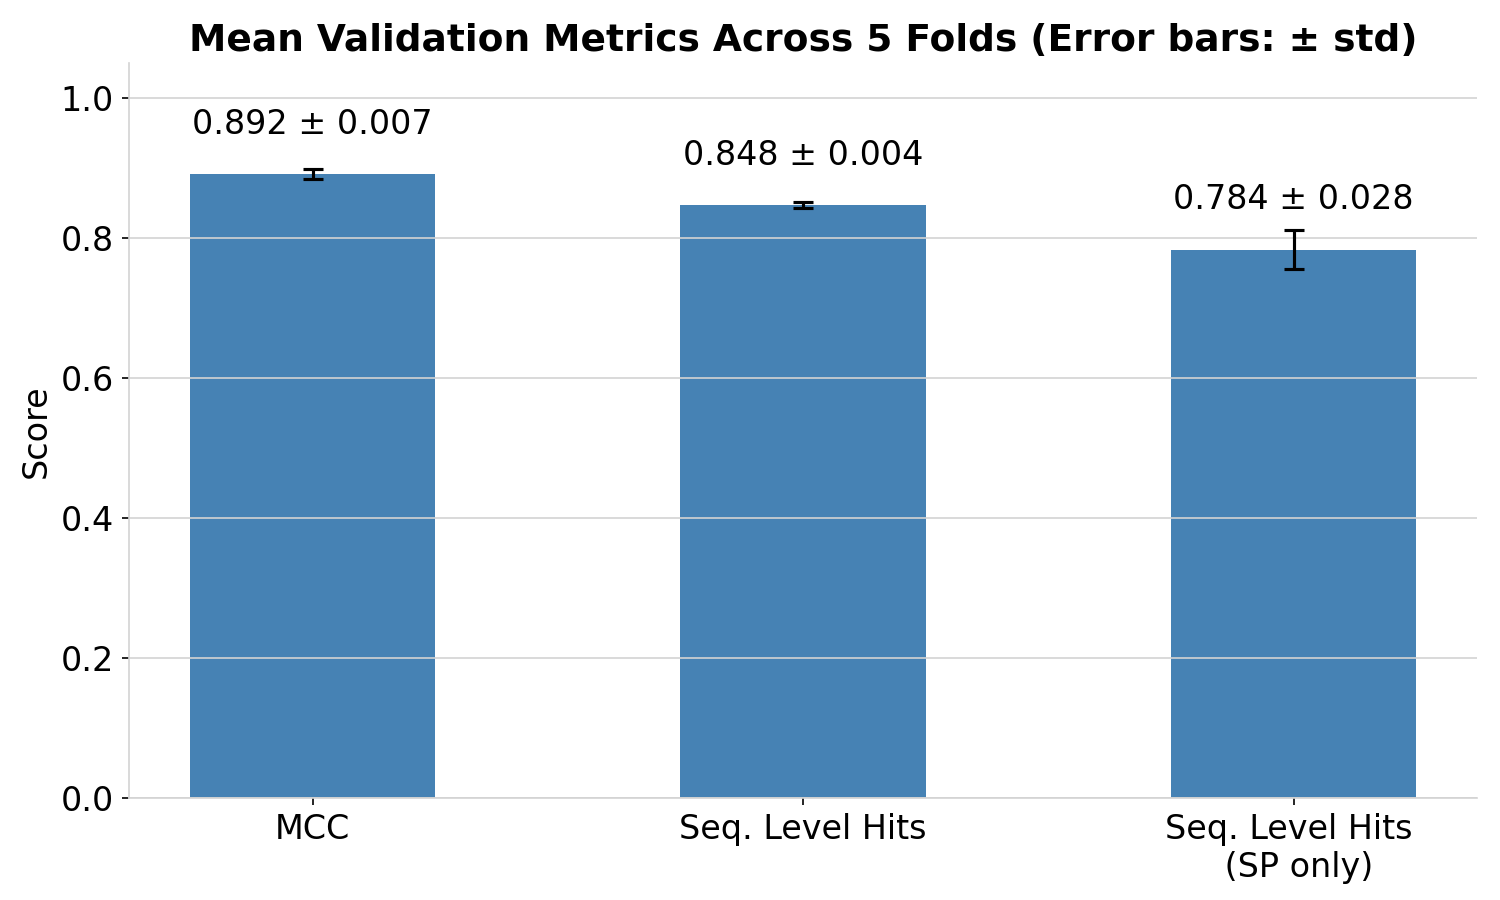
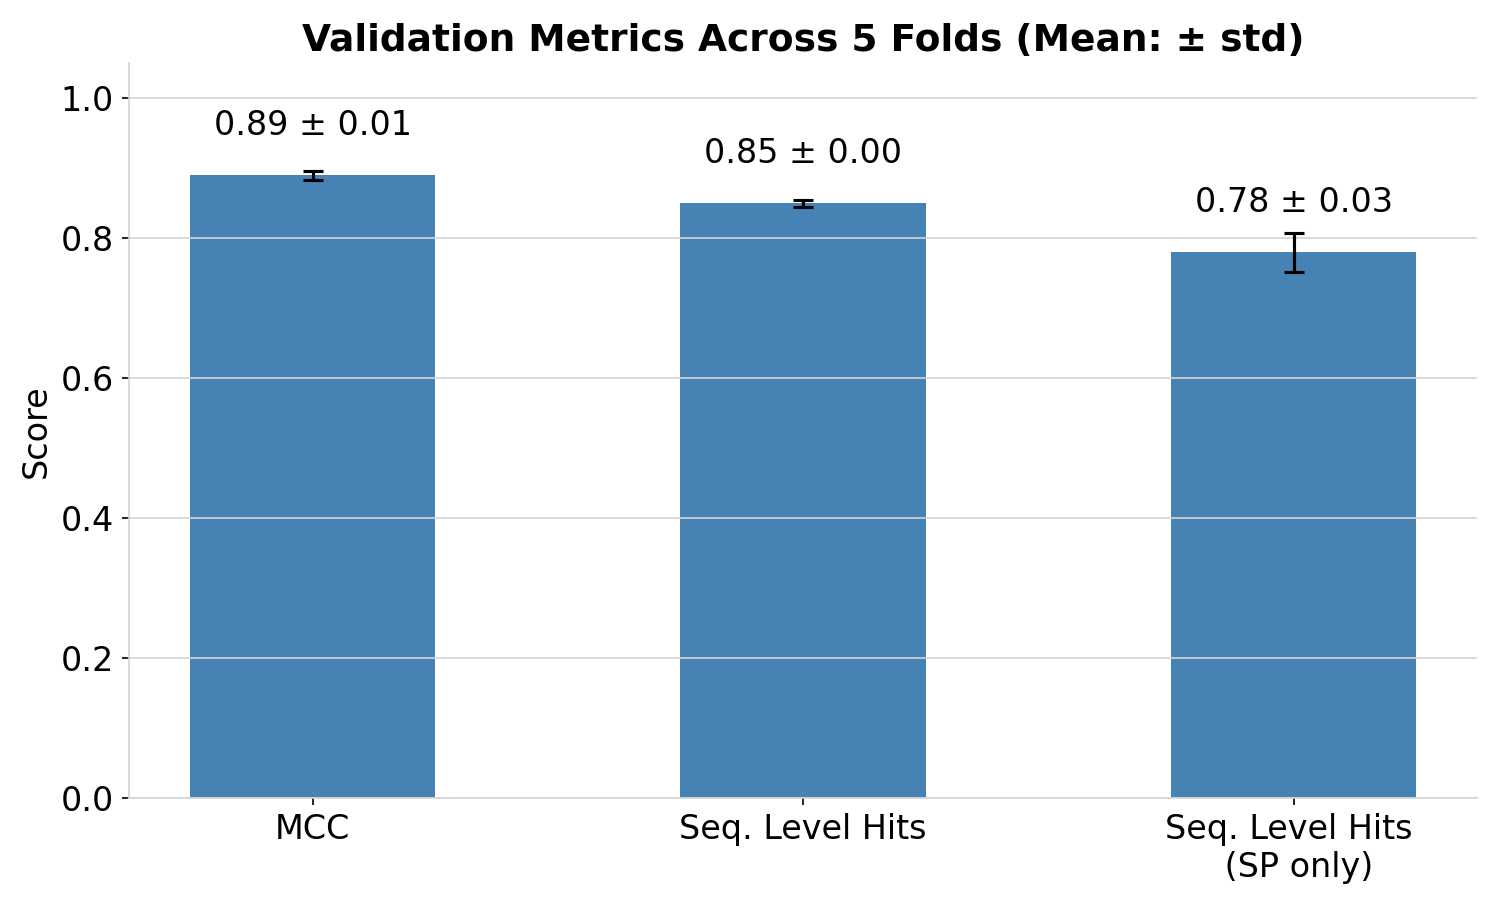
updates to the evaluation of the 6th model

diff --git a/6state/t5_lstm_cnn_6/evaluate_folds_mcc.py b/6state/t5_lstm_cnn_6/evaluate_folds_mcc.py
@@ -33,7 +33,8 @@ SIX_TO_FOUR_MAP = {
     5: 3  # OTHER
 }
 
-PLOT_LABELS = ['SP', 'TAT', 'LIPO', 'OTHER']
+PLOT_LABELS_4STATE = ['SP', 'TAT', 'LIPO', 'OTHER']
+PLOT_LABELS_6STATE = ['SP', 'TAT', 'LIPO', 'NO_SP', 'NO_SP_B', 'OTHER']
 SEQ_LENGTH = 70
 
 
@@ -134,27 +135,32 @@ def plot_metrics(mean_mcc, std_mcc, mean_acc, std_acc, fold_num, output_path):
     plt.close()
 
 
-def plot_label_distribution(sequences, output_path, title="Label Distribution"):
+def plot_label_distribution(sequences, output_path, title="Label Distribution", num_states=4):
     """Plots the relative distribution of labels."""
-    counts = {i: np.zeros(SEQ_LENGTH) for i in range(4)}
+    counts = {i: np.zeros(SEQ_LENGTH) for i in range(num_states)}
     total_counts = np.zeros(SEQ_LENGTH)
-    
+
     for seq in sequences:
         for i in range(min(len(seq), SEQ_LENGTH)):
             label = seq[i]
             if label in counts:
                 counts[label][i] += 1
                 total_counts[i] += 1
-                
+
     total_counts[total_counts == 0] = 1
-    ratios = [counts[i] / total_counts for i in range(4)]
-    
-    colors = ['#D55E00', '#009E73', '#56B4E9', '#CCCCCC']
-    
+    ratios = [counts[i] / total_counts for i in range(num_states)]
+
+    if num_states == 4:
+        colors = ['#D55E00', '#009E73', '#56B4E9', '#CCCCCC']
+        plot_labels = PLOT_LABELS_4STATE
+    else:
+        colors = ['#D55E00', '#009E73', '#56B4E9', '#E69F00', '#0072B2', '#CCCCCC']
+        plot_labels = PLOT_LABELS_6STATE
+
     fig, ax = plt.subplots(figsize=(12, 6))
     x = np.arange(1, SEQ_LENGTH + 1)
-    
-    ax.stackplot(x, *ratios, labels=PLOT_LABELS, colors=colors, alpha=0.9)
+
+    ax.stackplot(x, *ratios, labels=plot_labels, colors=colors, alpha=0.9)
     
     ax.set_xlim(1, SEQ_LENGTH)
     ax.set_ylim(0, 1.0)
@@ -170,7 +176,7 @@ def plot_label_distribution(sequences, output_path, title="Label Distribution"):
     plt.close()
 
 
-def get_fold_predictions(fold_num, embeddings_path):
+def get_fold_predictions(fold_num, embeddings_path=Config.TEST_EMBEDINGS):
     """Run inference for a single fold and return raw sequences."""
     
     model_path = Config.MODEL_SAVE_PATH_TEMP.format(fold_num)
@@ -229,16 +235,26 @@ def get_fold_predictions(fold_num, embeddings_path):
     return fold_pred_seqs, fold_label_seqs
 
 
-def evaluate_best_fold(best_fold_num, embeddings_path=None):
-    """Evaluate ONLY the best fold and run bootstrap on it."""
-    
+def evaluate_best_fold(best_fold_num, embeddings_path=None, use_6state=False):
+    """Evaluate ONLY the best fold and run bootstrap on it.
+
+    Args:
+        best_fold_num: The fold number to evaluate.
+        embeddings_path: Path to the embeddings file.
+        use_6state: If True, evaluate with original 6 states. If False, map to 4 states.
+    """
+
     if embeddings_path is None:
-        embeddings_path = Config.TEST_EMBEDINGS_FILTERED
+        embeddings_path = Config.TEST_EMBEDINGS
+
+    num_states = 6 if use_6state else 4
+    state_suffix = "6state" if use_6state else "4state"
 
     print(f"Using device: {Config.DEVICE}")
     print(f"Test embeddings: {embeddings_path}")
     print(f"Evaluating BEST MODEL: Fold {best_fold_num}")
-    
+    print(f"Evaluation mode: {num_states}-state")
+
     # 1. Collect predictions ONLY for the best fold
     p_seqs, l_seqs = get_fold_predictions(best_fold_num, embeddings_path)
 
@@ -248,28 +264,33 @@ def evaluate_best_fold(best_fold_num, embeddings_path=None):
 
     print(f"\nTotal sequences collected: {len(p_seqs)}")
 
-    # 2. Map to 4-State System
-    print("Mapping 6-state predictions to 4-state...")
-    mapped_preds = map_sequences_to_4state(p_seqs)
-    mapped_labels = map_sequences_to_4state(l_seqs)
+    # 2. Optionally map to 4-State System
+    if use_6state:
+        print("Using original 6-state labels...")
+        eval_preds = p_seqs
+        eval_labels = l_seqs
+    else:
+        print("Mapping 6-state predictions to 4-state...")
+        eval_preds = map_sequences_to_4state(p_seqs)
+        eval_labels = map_sequences_to_4state(l_seqs)
 
     # 3. Plot Ground Truth Distribution
     Config.PLOTS_SAVE_DIR.mkdir(parents=True, exist_ok=True)
-    dist_plot_path = Config.PLOTS_SAVE_DIR / "ground_truth_distribution_4state.png"
-    plot_label_distribution(mapped_labels, dist_plot_path, title="Ground Truth Label Composition")
+    dist_plot_path = Config.PLOTS_SAVE_DIR / f"ground_truth_distribution_{state_suffix}.png"
+    plot_label_distribution(eval_labels, dist_plot_path, title="Ground Truth Label Composition", num_states=num_states)
 
     # 4. Bootstrap Analysis (on the single fold's predictions)
     mean_mcc, std_mcc, mean_acc, std_acc = calculate_bootstrap_stats(
-        mapped_preds, mapped_labels, n_iterations=1000, seq_length=SEQ_LENGTH
+        eval_preds, eval_labels, n_iterations=1000, seq_length=SEQ_LENGTH
     )
 
     # 5. Plot Metrics
-    metrics_plot_path = Config.PLOTS_SAVE_DIR / f"fold_{best_fold_num}_metrics_4state.png"
+    metrics_plot_path = Config.PLOTS_SAVE_DIR / f"fold_{best_fold_num}_metrics_{state_suffix}.png"
     plot_metrics(mean_mcc, std_mcc, mean_acc, std_acc, best_fold_num, metrics_plot_path)
 
     # 6. Save CSV
     positions = np.arange(1, SEQ_LENGTH + 1)
-    
+
     df = pd.DataFrame({
         'Position': positions,
         'Mean_MCC': mean_mcc,
@@ -278,8 +299,8 @@ def evaluate_best_fold(best_fold_num, embeddings_path=None):
         'Mean_Accuracy': mean_acc,
         'Std_Dev_acc': std_acc
     })
-    
-    csv_path = Config.PLOTS_SAVE_DIR / f"fold_{best_fold_num}_stats_4state.csv"
+
+    csv_path = Config.PLOTS_SAVE_DIR / f"fold_{best_fold_num}_stats_{state_suffix}.csv"
     df.to_csv(csv_path, index=False)
     print(f"\nDetailed statistics saved to: {csv_path}")
     print("\nSummary (First 5 positions):")
@@ -287,6 +308,12 @@ def evaluate_best_fold(best_fold_num, embeddings_path=None):
 
 
 if __name__ == "__main__":
-    BEST_FOLD = 5
-    
-    evaluate_best_fold(BEST_FOLD)
+    import argparse
+
+    parser = argparse.ArgumentParser(description="Evaluate best fold with MCC metrics")
+    parser.add_argument("--fold", type=int, default=5, help="Fold number to evaluate (default: 5)")
+    parser.add_argument("--use-6state", action="store_true", help="Use original 6 states instead of mapping to 4 states")
+
+    args = parser.parse_args()
+
+    evaluate_best_fold(args.fold, use_6state=args.use_6state)

diff --git a/6state/t5_lstm_cnn_6/evaluate.py b/6state/t5_lstm_cnn_6/evaluate.py
@@ -14,12 +14,86 @@ from sklearn.metrics import (
 from sklearn.utils import resample
 import matplotlib.pyplot as plt
 from tqdm import tqdm  # Optional: for progress bar during bootstrapping
+import pickle
+from pathlib import Path
+import pandas as pd
 
 from .config import Config
 from .dataset import SPDatasetWithEmbeddings
 from .metrics import sequence_level_accuracy, sequence_level_accuracy_only_sps
 from .model import SPCNNClassifier
 from .utils import get_test_data
+
+
+def plot_best_metrics_bar_evaluation(results_path: Path = Config.PLOTS_SAVE_DIR / "evaluation_metrics_final.csv"):
+    """Plot MCC, Seq. Accuracy, and Seq. Accuracy (SP only) as a bar chart."""
+
+    # Read the CSV file and parse metrics
+    metrics = {}
+    with open(results_path, "r") as f:
+        for line in f:
+            parts = line.strip().split(", ", 1)
+            if len(parts) == 2:
+                key, value = parts
+                try:
+                    metrics[key] = float(value)
+                except ValueError:
+                    pass  # Skip non-numeric values like position_specific_mcc list
+
+    # Extract values and std deviations
+    mcc = metrics.get('mcc', 0)
+    mcc_std = metrics.get('mcc_std', 0)
+    seq_acc = metrics.get('seq_acc', 0)
+    seq_acc_std = metrics.get('seq_acc_std', 0)
+    seq_acc_only_sps = metrics.get('seq_acc_only_sps', 0)
+    seq_acc_only_sps_std = metrics.get('seq_acc_only_sps_std', 0)
+
+    fig, ax = plt.subplots(figsize=(10, 6))
+
+    metrics_names = ['MCC', 'Seq. Level Hits', 'Seq. Level Hits \n (SP only)']
+    x = np.arange(len(metrics_names))
+    width = 0.5
+
+    mean_values = [mcc, seq_acc, seq_acc_only_sps]
+    std_values = [mcc_std, seq_acc_std, seq_acc_only_sps_std]
+
+    # Plot bars
+    ax.bar(x, mean_values, width, color='steelblue', edgecolor='none', zorder=2)
+    ax.errorbar(x, mean_values, yerr=std_values, fmt='none',
+                ecolor='black', capsize=5, capthick=1.5, elinewidth=1.5, zorder=4)
+
+    # Styling
+    ax.set_facecolor('white')
+    ax.spines['top'].set_visible(False)
+    ax.spines['right'].set_visible(False)
+    ax.spines['left'].set_color('lightgray')
+    ax.spines['bottom'].set_color('lightgray')
+
+    # Horizontal lines
+    yticks = np.arange(0, 1.1, 0.2)
+    for y_tick in yticks:
+        ax.axhline(y=y_tick, color='lightgray', linewidth=0.8, zorder=3)
+
+    ax.set_ylabel('Score', fontsize=16)
+    ax.set_title('Evaluation Metrics (Mean ± Bootstrap Std)', fontdict={'fontsize': 18, 'fontweight': 'bold'})
+    ax.set_xticks(x)
+    ax.set_xticklabels(metrics_names, fontsize=16)
+    ax.set_ylim(0, 1.05)
+    ax.set_yticks(yticks)
+    ax.tick_params(axis='y', labelsize=16)
+
+    # Value labels with mean ± std
+    max_yerr = max(std_values) if max(std_values) > 0 else 0.02
+    for i, (val, std) in enumerate(zip(mean_values, std_values)):
+        ax.text(i, val + max_yerr + 0.02, f'{val:.2f} ± {round(std, 2):.2f}', ha='center', va='bottom', fontsize=16)
+
+    plt.tight_layout()
+
+    bar_path = Config.PLOTS_SAVE_DIR / '6state_t5_lstm_cnn_6_evaluation_metrics_bar.png'
+    plt.savefig(bar_path, dpi=150)
+    print(f"Bar plot saved to: {bar_path}")
+
+    return fig
 
 def position_specific_mcc(pred_sequences, true_sequences):
     """
@@ -172,9 +246,7 @@ def evaluate_model(embeddings_path):
     seq_acc_only_sps = sequence_level_accuracy_only_sps(all_preds, all_labels, full_label_sequences)
     avg_loss = test_loss / len(test_loader)
 
-    # ---------------------------------------------------------
     # Bootstrap Analysis for Std Dev
-    # ---------------------------------------------------------
     bootstrap_results = calculate_bootstrap_std(full_pred_sequences, full_label_sequences)
     mcc_std = bootstrap_results['mcc_std']
     seq_acc_std = bootstrap_results['seq_acc_std']
@@ -234,10 +306,11 @@ def evaluate_model(embeddings_path):
 
 if __name__ == "__main__":
     res = evaluate_model(Config.TEST_EMBEDINGS)
-    metrics_path = Config.PLOTS_SAVE_DIR / "evaluation_metrics_final.txt"
+    metrics_path = Config.PLOTS_SAVE_DIR / "evaluation_metrics_final.csv"
     with open(metrics_path, "w") as f:
         for key, value in res.items():
             if isinstance(value, list):
-                f.write(f"{key}: {value}\n")
+                f.write(f"{key}, {value}\n")
             else:
-                f.write(f"{key}: {value}\n")
+                f.write(f"{key}, {value}\n")
+    plot_best_metrics_bar_evaluation()

diff --git a/6state/t5_lstm_cnn_6/visualize.py b/6state/t5_lstm_cnn_6/visualize.py
@@ -92,6 +92,9 @@ def plot_best_metrics_bar(results_path: Path = Config.TRAIN_VAL_LOSSES_PKL_SAVE_
         np.mean(all_values['seq_acc_only_sps']),
     ]
 
+    for i, val in enumerate(mean_values):
+        mean_values[i] = float(f"{round(val, 2):.2f}")
+
     # Calculate standard deviation for error bars
     if len(all_fold_metrics) > 1:
         std_values = [
@@ -120,7 +123,7 @@ def plot_best_metrics_bar(results_path: Path = Config.TRAIN_VAL_LOSSES_PKL_SAVE_
         ax.axhline(y=y_tick, color='lightgray', linewidth=0.8, zorder=3)
 
     ax.set_ylabel('Score', fontsize=16)
-    ax.set_title(f'Mean Validation Metrics Across {num_folds} Folds (Error bars: ± std)', fontdict={'fontsize': 18, 'fontweight': 'bold'})
+    ax.set_title(f'Validation Metrics Across {num_folds} Folds (Mean: ± std)', fontdict={'fontsize': 18, 'fontweight': 'bold'})
     ax.set_xticks(x)
     ax.set_xticklabels(metrics_names, fontsize=16)
     ax.set_ylim(0, 1.05)
@@ -130,7 +133,7 @@ def plot_best_metrics_bar(results_path: Path = Config.TRAIN_VAL_LOSSES_PKL_SAVE_
     # Value labels with mean ± std
     max_yerr = max(std_values) if max(std_values) > 0 else 0.02
     for i, (val, std) in enumerate(zip(mean_values, std_values)):
-        ax.text(i, val + max_yerr + 0.02, f'{val:.3f} ± {std:.3f}', ha='center', va='bottom', fontsize=16)
+        ax.text(i, val + max_yerr + 0.02, f'{val:.2f} ± {round(std, 2):.2f}', ha='center', va='bottom', fontsize=16)
 
     plt.tight_layout()
 

diff --git a/6state/t5_lstm_cnn_6/count_parameters.py b/6state/t5_lstm_cnn_6/count_parameters.py
@@ -1,0 +1,34 @@
+import sys
+from pathlib import Path
+import torch
+import torch.nn as nn
+
+# --- Path Correction for Direct Execution ---
+# Add the '6state' directory to the system path to allow absolute imports
+# of modules within 't5_lstm_cnn_6', even when running this script directly.
+script_dir = Path(__file__).resolve().parent
+parent_dir = script_dir.parent
+sys.path.insert(0, str(parent_dir))
+# --- End Path Correction ---
+
+from t5_lstm_cnn_6.config import Config
+from t5_lstm_cnn_6.model import SPCNNClassifier
+
+def count_parameters(model: nn.Module):
+    """Counts the total number of trainable parameters in a PyTorch model."""
+    return sum(p.numel() for p in model.parameters() if p.requires_grad)
+
+if __name__ == "__main__":
+    # Instantiate the model using parameters from Config
+    model = SPCNNClassifier(
+        embedding_dim=Config.EMBEDDING_DIM,
+        num_labels=Config.NUM_LABELS,
+        dropout=Config.DROPOUT,
+        lstm_hidden=Config.LSTM_HIDDEN,
+        lstm_layers=Config.LSTM_LAYERS,
+        conv_filters=Config.CONV_FILTERS,
+    )
+
+    num_params = count_parameters(model)
+    # Format number with commas for readability
+    print(f"Total number of trainable parameters in SPCNNClassifier: {num_params:,}")

diff --git a/6state/t5_lstm_cnn_6/train.py b/6state/t5_lstm_cnn_6/train.py
@@ -109,7 +109,7 @@ def train(lr=None, dropout=None, weight_decay=None):
                     token_labels = batch['labels'].to(Config.DEVICE)
 
                     optimizer.zero_grad() # clear the gradients from previous batch, will accumulate otherwise
-                    loss = model(embeddings, attention_mask, token_labels) # call forward func, crf gives loss directly during training
+                    loss = model(embeddings, attention_mask, token_labels) # call forward func, crf and ce give loss directly during training
 
                     scaler.scale(loss).backward() # backpropagation, scales gradients for fp16, i.e. prevents underflow to 0 using multiplier
                     scaler.unscale_(optimizer) # unscales gradients again to not use the inflated values

diff --git a/6state/t5_lstm_cnn_6/model.py b/6state/t5_lstm_cnn_6/model.py
@@ -59,7 +59,7 @@ class SPCNNClassifier(nn.Module):
         # Weighted cross-entropy loss in addition to CRF loss
         self.ce_loss = nn.CrossEntropyLoss(
             weight=class_weights,
-            ignore_index=-100,
+            ignore_index=-100, # for EOS token (and maybe PAD?)
             reduction="mean"
         )
 
